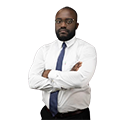
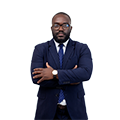
change fotos team

diff --git a/src/components/sections/ServicesGridSection.js b/src/components/sections/ServicesGridSection.js
@@ -52,6 +52,8 @@ const services = [
 
 
 const ServicesGridSection = () => {
+    const { theme } = useTheme();
+
     // This section is always dark/white text due to the nature of the cards
     return (
         <section id="servicos" className="relative py-24 overflow-hidden text-white bg-midnight-black">
@@ -69,7 +71,7 @@ const ServicesGridSection = () => {
                         initial={{ opacity: 0, y: 20 }}
                         whileInView={{ opacity: 1, y: 0 }}
                         transition={{ duration: 0.6 }}
-                        className="text-4xl md:text-5xl font-heading font-extrabold mb-6 text-white"
+                        className={`text-4xl md:text-5xl font-heading font-extrabold mb-6 ${theme === 'light' ? 'text-[#0D1E2C]' : 'text-white'}`}
                     >
                         Serviços
                     </motion.h2>

diff --git a/src/index.css b/src/index.css
@@ -332,7 +332,13 @@ textarea::placeholder {
 }
 
 /* Force white text for Services Section in light mode */
-[data-theme='light'] #servicos h2,
+/* Force white text for Services Section in light mode */
+[data-theme='light'] #servicos h2 {
+  color: #0D1E2C !important;
+  background-image: none !important;
+  -webkit-text-fill-color: #0D1E2C !important;
+}
+
 [data-theme='light'] #servicos h3 {
   color: #FFFFFF !important;
   background-image: none !important;
